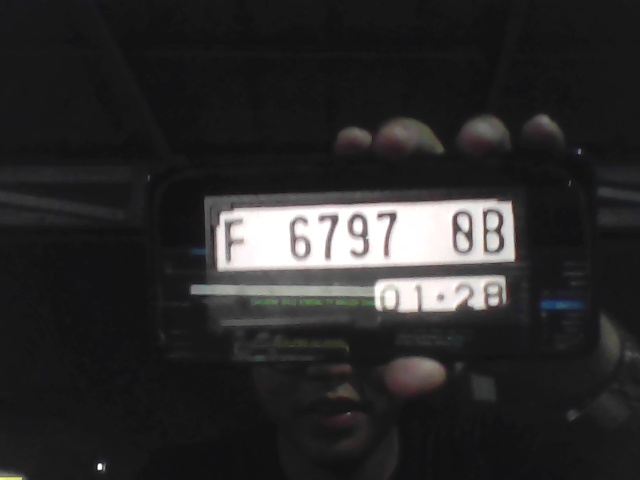
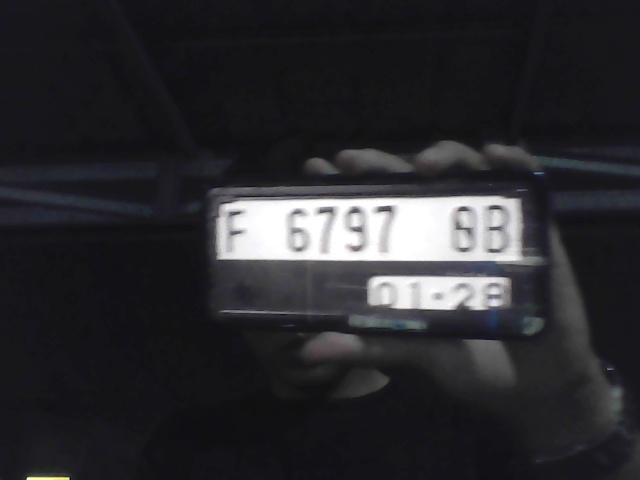
cloudflare v1.3

diff --git a/supabase_logger.py b/supabase_logger.py
@@ -361,8 +361,7 @@ class SupabaseLogger:
             "status": info["status"],
             "method": method,
             "direction": direction,
-            "confidence": conf_val,
-            "region": region or "id"
+            "confidence": conf_val
         }
 
         # Tampilkan hasil pencocokan di console RPi
